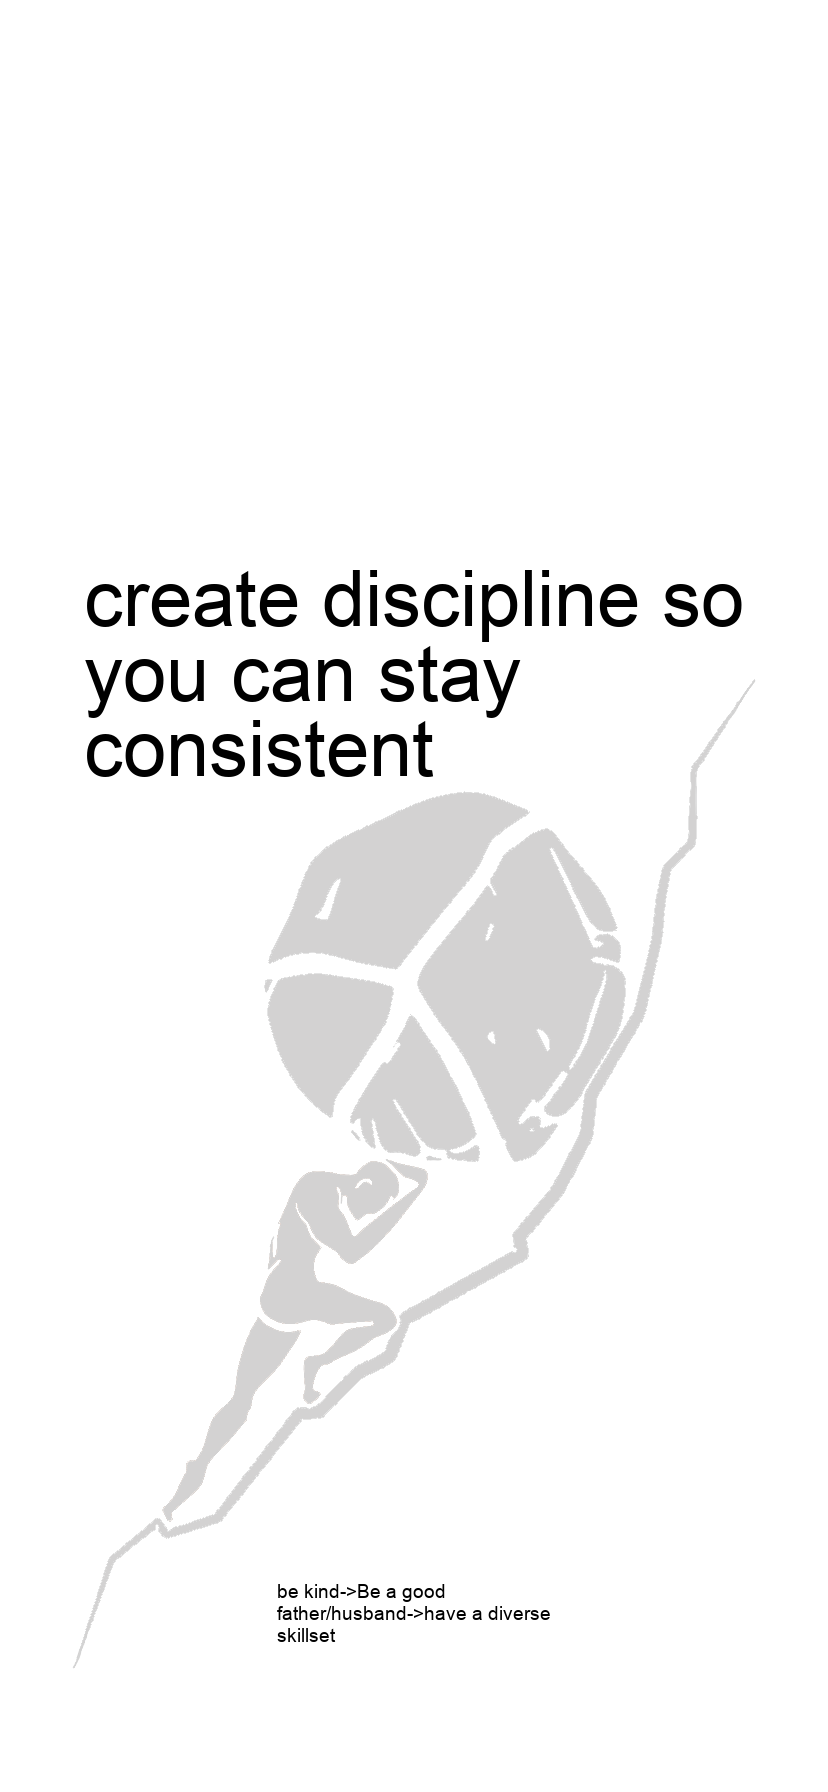
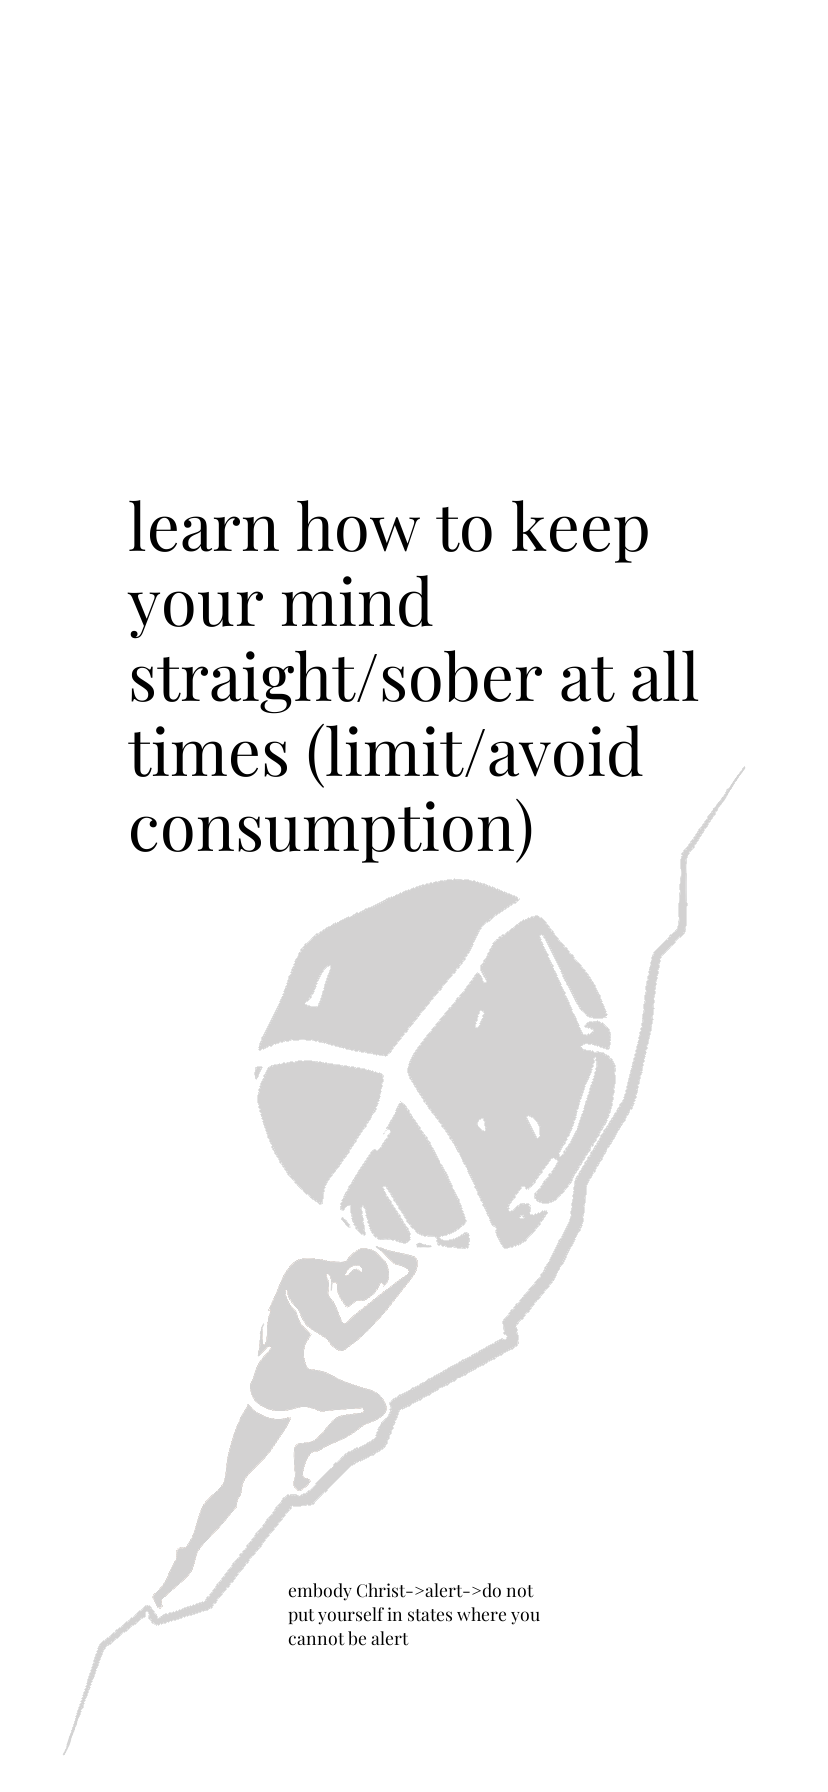
framing and font

Changed region(s): [[0.0906, 0.2812, 0.9058, 0.9688], [0.3321, 0.875, 0.6643, 0.9375]]

diff --git a/main.py b/main.py
@@ -74,12 +74,12 @@ char_len = len(ttp)
 width = 828
 height = 1792
 
-im = Image.open("./template/sisy_f.png")
+im = Image.open("./template/sisy_final.png")
 draw = ImageDraw.Draw(im)
 
 #font_size = int((height / char_len))
 font_size = 1000
-font = ImageFont.truetype("Arial.ttf", font_size)
+font = ImageFont.truetype("PlayfairDisplay-Regular.ttf", font_size)
 
 text = ttp
 
@@ -108,7 +108,7 @@ cp_len = len(chosen_path)
 fl_final = font_size
 
 # font_size = 1000
-font2 = ImageFont.truetype("Arial.ttf", font_size1f*.66)
+font2 = ImageFont.truetype("PlayfairDisplay-Regular.ttf", font_size1f*.66)
 # while font_size > 1:
 #   if font2.getlength(text) < width*.6:
 #     break
